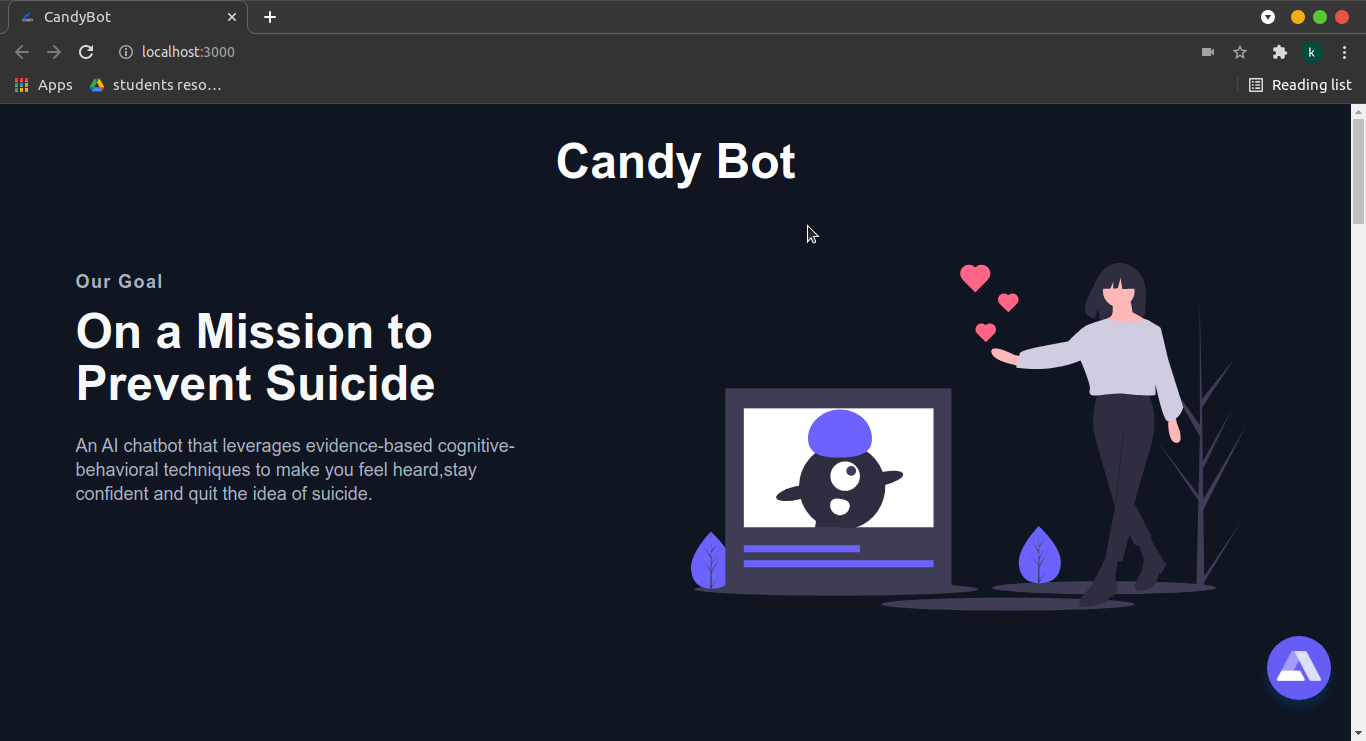
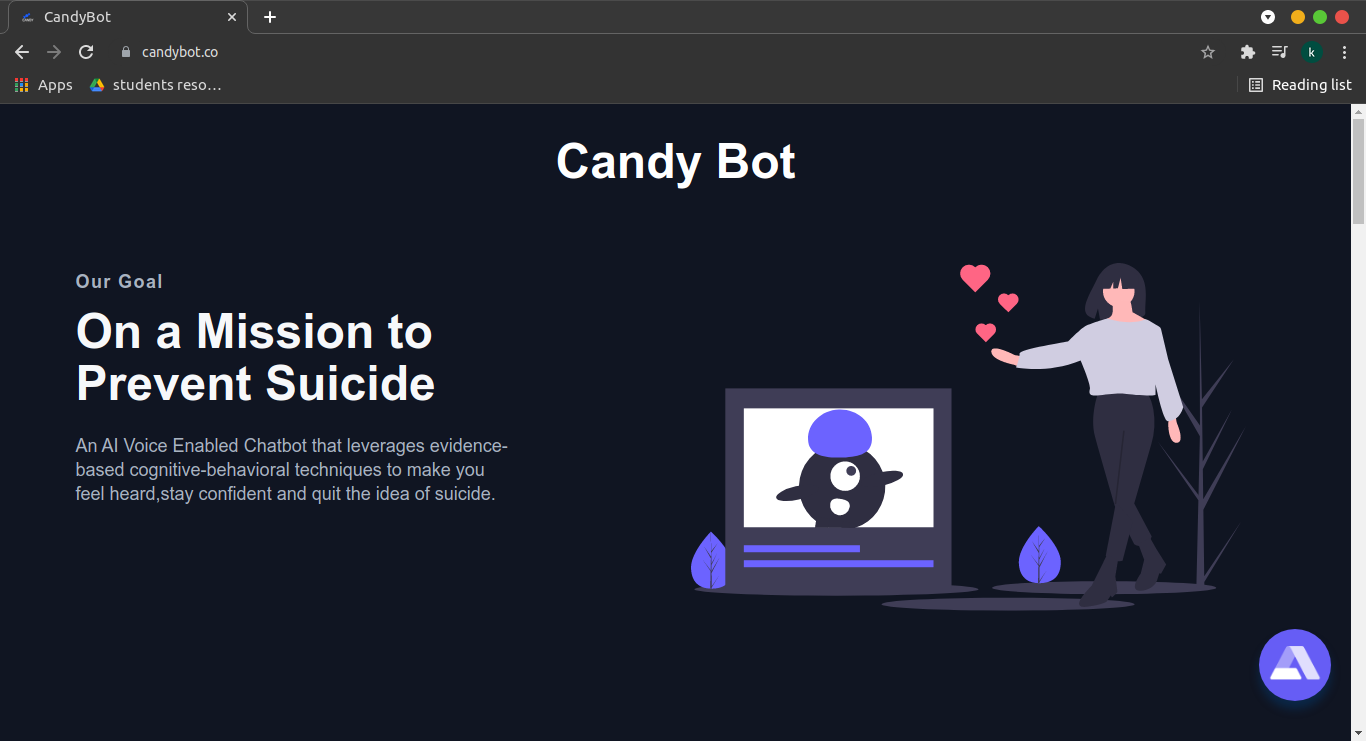
updated readme

diff --git a/react-app/candybot/src/pages/HomePage/Data.js b/react-app/candybot/src/pages/HomePage/Data.js
@@ -7,7 +7,7 @@ export const homeObjOne = {
   topLine: 'Our Goal',
   headline: 'On a Mission to Prevent Suicide',
   description:
-    'An AI chatbot that leverages evidence-based cognitive-behavioral techniques to make you feel heard,stay confident and quit the idea of suicide.',
+    'An AI Voice Enabled chatbot that leverages evidence-based cognitive-behavioral techniques to make you feel heard,stay confident and quit the idea of suicide.',
   buttonLabel: 'Commands',
   imgStart: '',
   img: require('../../images/1.svg'),
